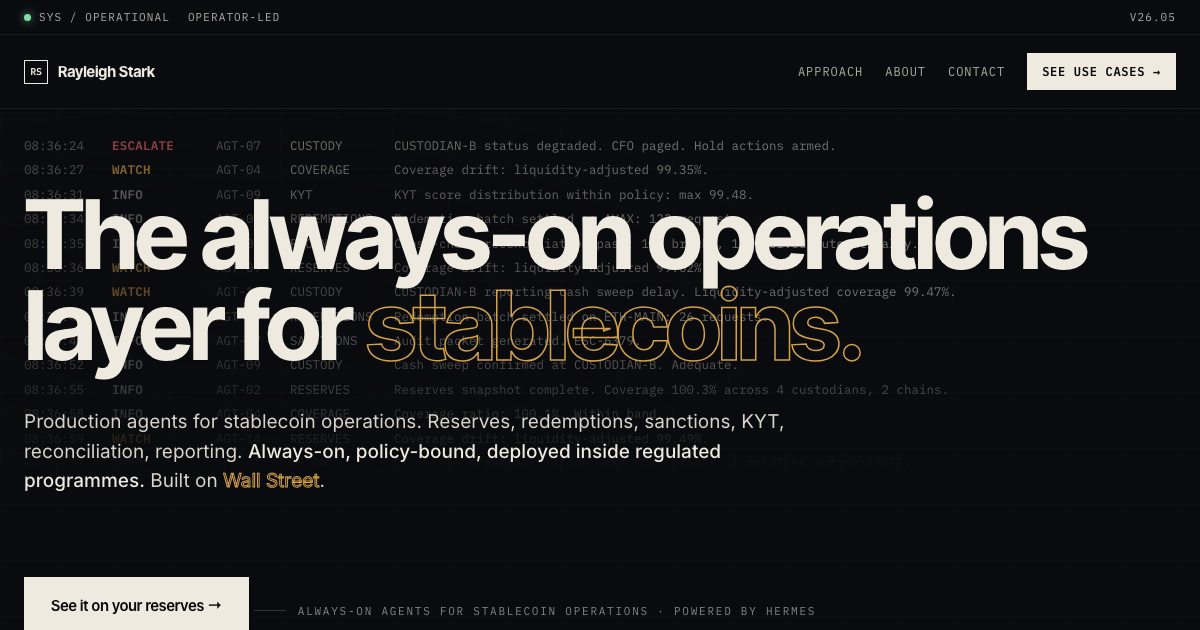
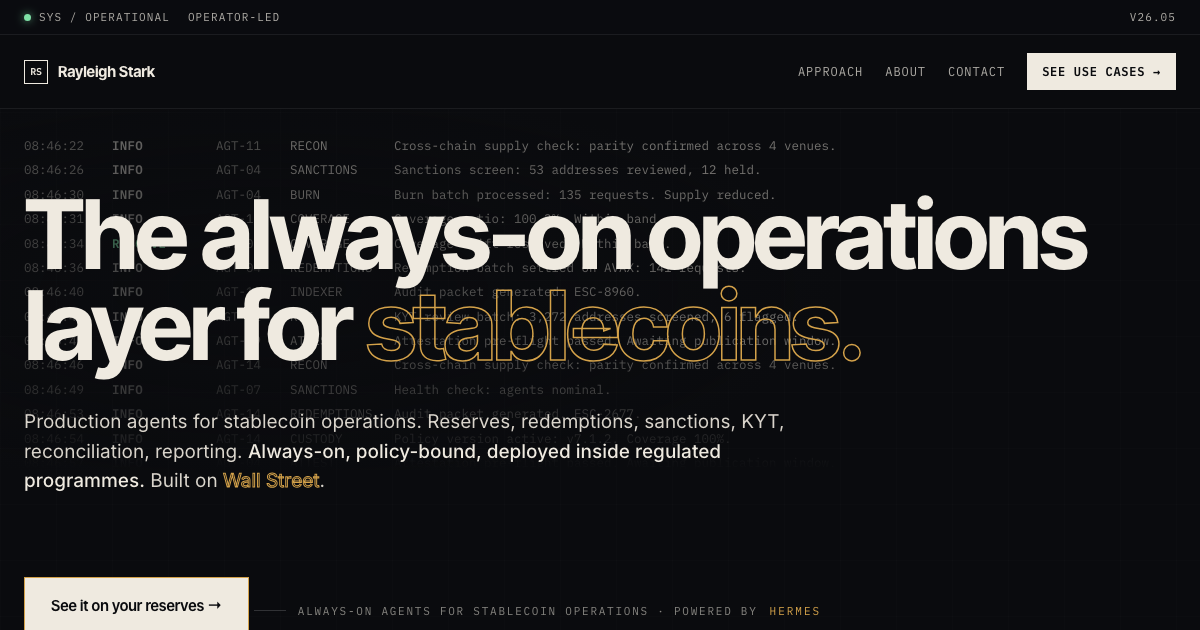
Recapture og-image and bump cache-bust to v=26.05e
Hero CTA gained a gold border; recapture the og-image so the
post-design social preview reflects it, and bump the version query
so scrapers and CDN edges re-fetch on next deploy.

diff --git a/about.html b/about.html
@@ -17,8 +17,8 @@
     <meta property="og:type" content="website" />
     <meta property="og:url" content="https://rayleighstark.com/about" />
     <meta property="og:site_name" content="Rayleigh Stark" />
-    <meta name="image" property="og:image" itemprop="image" content="https://rayleighstark.com/og-image.png?v=26.05d" />
-    <meta property="og:image:secure_url" content="https://rayleighstark.com/og-image.png?v=26.05d" />
+    <meta name="image" property="og:image" itemprop="image" content="https://rayleighstark.com/og-image.png?v=26.05e" />
+    <meta property="og:image:secure_url" content="https://rayleighstark.com/og-image.png?v=26.05e" />
     <meta property="og:image:type" content="image/png" />
     <meta property="og:image:width" content="1200" />
     <meta property="og:image:height" content="630" />
@@ -26,7 +26,7 @@
     <meta name="twitter:card" content="summary_large_image" />
     <meta name="twitter:title" content="About · Rayleigh Stark" />
     <meta name="twitter:description" content="Anthony Kwawu, founder. Almost a decade inside a global investment bank. Now running always-on agents for stablecoin operations on Hermes, the Rayleigh Stark runtime." />
-    <meta name="twitter:image" content="https://rayleighstark.com/og-image.png?v=26.05d" />
+    <meta name="twitter:image" content="https://rayleighstark.com/og-image.png?v=26.05e" />
     <meta name="twitter:image:alt" content="Rayleigh Stark · The always-on operations layer for stablecoins" />
 <link rel="preconnect" href="https://fonts.googleapis.com">
 <link rel="preconnect" href="https://fonts.gstatic.com" crossorigin>

diff --git a/index.html b/index.html
@@ -17,8 +17,8 @@
     <meta property="og:type" content="website" />
     <meta property="og:url" content="https://rayleighstark.com/" />
     <meta property="og:site_name" content="Rayleigh Stark" />
-    <meta name="image" property="og:image" itemprop="image" content="https://rayleighstark.com/og-image.png?v=26.05d" />
-    <meta property="og:image:secure_url" content="https://rayleighstark.com/og-image.png?v=26.05d" />
+    <meta name="image" property="og:image" itemprop="image" content="https://rayleighstark.com/og-image.png?v=26.05e" />
+    <meta property="og:image:secure_url" content="https://rayleighstark.com/og-image.png?v=26.05e" />
     <meta property="og:image:type" content="image/png" />
     <meta property="og:image:width" content="1200" />
     <meta property="og:image:height" content="630" />
@@ -26,7 +26,7 @@
     <meta name="twitter:card" content="summary_large_image" />
     <meta name="twitter:title" content="Rayleigh Stark · The always-on operations layer for stablecoins" />
     <meta name="twitter:description" content="Production agents for stablecoin operations. Reserves, redemptions, sanctions, KYT, reconciliation, reporting. Always-on, policy-bound, deployed inside regulated programmes. Built on Wall Street." />
-    <meta name="twitter:image" content="https://rayleighstark.com/og-image.png?v=26.05d" />
+    <meta name="twitter:image" content="https://rayleighstark.com/og-image.png?v=26.05e" />
     <meta name="twitter:image:alt" content="Rayleigh Stark · The always-on operations layer for stablecoins" />
     <script type="application/ld+json">
     {

diff --git a/approach.html b/approach.html
@@ -17,8 +17,8 @@
     <meta property="og:type" content="website" />
     <meta property="og:url" content="https://rayleighstark.com/approach" />
     <meta property="og:site_name" content="Rayleigh Stark" />
-    <meta name="image" property="og:image" itemprop="image" content="https://rayleighstark.com/og-image.png?v=26.05d" />
-    <meta property="og:image:secure_url" content="https://rayleighstark.com/og-image.png?v=26.05d" />
+    <meta name="image" property="og:image" itemprop="image" content="https://rayleighstark.com/og-image.png?v=26.05e" />
+    <meta property="og:image:secure_url" content="https://rayleighstark.com/og-image.png?v=26.05e" />
     <meta property="og:image:type" content="image/png" />
     <meta property="og:image:width" content="1200" />
     <meta property="og:image:height" content="630" />
@@ -26,7 +26,7 @@
     <meta name="twitter:card" content="summary_large_image" />
     <meta name="twitter:title" content="Approach · Rayleigh Stark" />
     <meta name="twitter:description" content="How a Rayleigh Stark deployment runs: from operations audit, to design partner, to always-on in production." />
-    <meta name="twitter:image" content="https://rayleighstark.com/og-image.png?v=26.05d" />
+    <meta name="twitter:image" content="https://rayleighstark.com/og-image.png?v=26.05e" />
     <meta name="twitter:image:alt" content="Rayleigh Stark · The always-on operations layer for stablecoins" />
 <link rel="preconnect" href="https://fonts.googleapis.com">
 <link rel="preconnect" href="https://fonts.gstatic.com" crossorigin>

diff --git a/contact.html b/contact.html
@@ -17,8 +17,8 @@
     <meta property="og:type" content="website" />
     <meta property="og:url" content="https://rayleighstark.com/contact" />
     <meta property="og:site_name" content="Rayleigh Stark" />
-    <meta name="image" property="og:image" itemprop="image" content="https://rayleighstark.com/og-image.png?v=26.05d" />
-    <meta property="og:image:secure_url" content="https://rayleighstark.com/og-image.png?v=26.05d" />
+    <meta name="image" property="og:image" itemprop="image" content="https://rayleighstark.com/og-image.png?v=26.05e" />
+    <meta property="og:image:secure_url" content="https://rayleighstark.com/og-image.png?v=26.05e" />
     <meta property="og:image:type" content="image/png" />
     <meta property="og:image:width" content="1200" />
     <meta property="og:image:height" content="630" />
@@ -26,7 +26,7 @@
     <meta name="twitter:card" content="summary_large_image" />
     <meta name="twitter:title" content="Contact · Rayleigh Stark" />
     <meta name="twitter:description" content="Email a short note about the stablecoin operation you would want watched." />
-    <meta name="twitter:image" content="https://rayleighstark.com/og-image.png?v=26.05d" />
+    <meta name="twitter:image" content="https://rayleighstark.com/og-image.png?v=26.05e" />
     <meta name="twitter:image:alt" content="Rayleigh Stark · The always-on operations layer for stablecoins" />
 <link rel="preconnect" href="https://fonts.googleapis.com">
 <link rel="preconnect" href="https://fonts.gstatic.com" crossorigin>

diff --git a/terms.html b/terms.html
@@ -17,8 +17,8 @@
     <meta property="og:type" content="website" />
     <meta property="og:url" content="https://rayleighstark.com/terms" />
     <meta property="og:site_name" content="Rayleigh Stark" />
-    <meta name="image" property="og:image" itemprop="image" content="https://rayleighstark.com/og-image.png?v=26.05d" />
-    <meta property="og:image:secure_url" content="https://rayleighstark.com/og-image.png?v=26.05d" />
+    <meta name="image" property="og:image" itemprop="image" content="https://rayleighstark.com/og-image.png?v=26.05e" />
+    <meta property="og:image:secure_url" content="https://rayleighstark.com/og-image.png?v=26.05e" />
     <meta property="og:image:type" content="image/png" />
     <meta property="og:image:width" content="1200" />
     <meta property="og:image:height" content="630" />
@@ -26,7 +26,7 @@
     <meta name="twitter:card" content="summary_large_image" />
     <meta name="twitter:title" content="Terms · Rayleigh Stark" />
     <meta name="twitter:description" content="Terms for the Rayleigh Stark website." />
-    <meta name="twitter:image" content="https://rayleighstark.com/og-image.png?v=26.05d" />
+    <meta name="twitter:image" content="https://rayleighstark.com/og-image.png?v=26.05e" />
     <meta name="twitter:image:alt" content="Rayleigh Stark · The always-on operations layer for stablecoins" />
 <link rel="preconnect" href="https://fonts.googleapis.com">
 <link rel="preconnect" href="https://fonts.gstatic.com" crossorigin>
